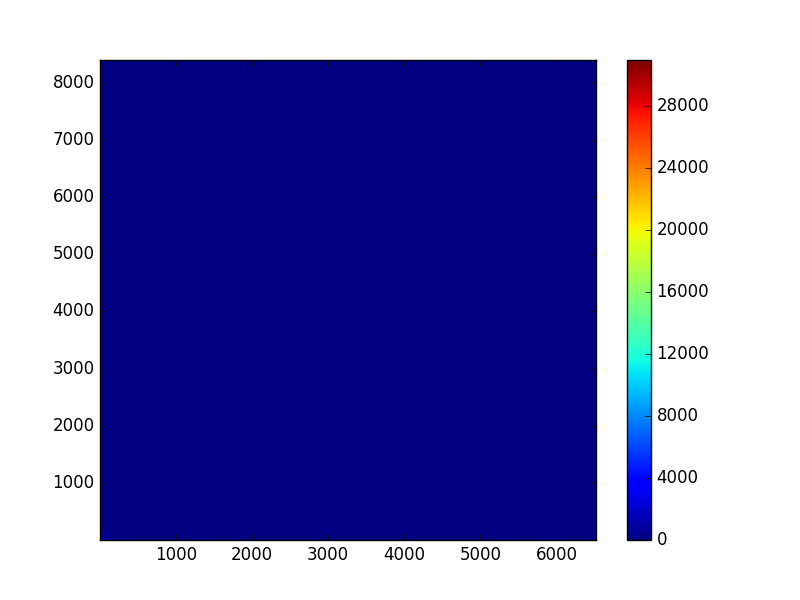
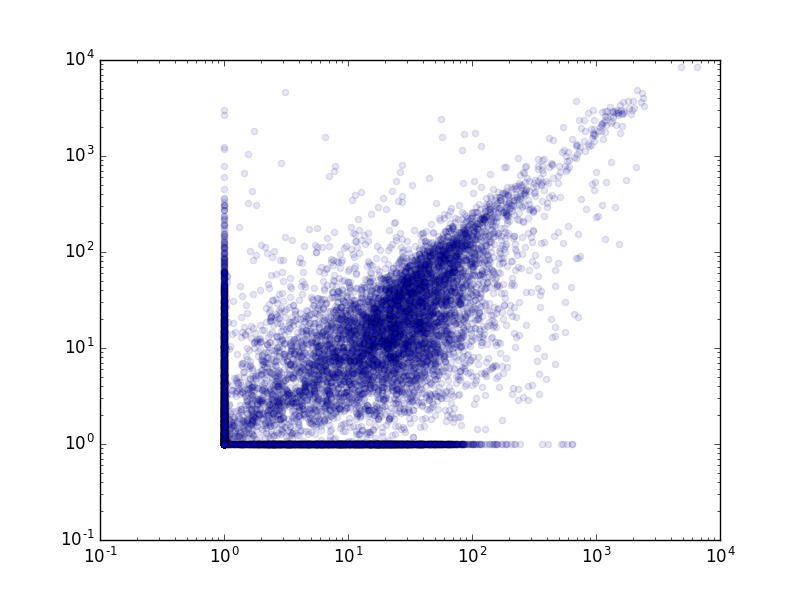
change scatterplot from hexbin

diff --git a/day4-afternoon/00-scattorPlot.py b/day4-afternoon/00-scattorPlot.py
@@ -9,10 +9,10 @@ df2 = pd.read_table(sys.argv[2])
 
 
 plt.figure()
-# plt.xscale("log")
-# plt.yscale("log")
-# plt.scatter( df1["FPKM"]+1, df2["FPKM"]+1, alpha=0.1)
-plt.hexbin( df1["FPKM"]+1, df2["FPKM"]+1)
-plt.colorbar()
+plt.xscale("log")
+plt.yscale("log")
+plt.scatter( df1["FPKM"]+1, df2["FPKM"]+1, alpha=0.1)
+# plt.hexbin( df1["FPKM"]+1, df2["FPKM"]+1)
+# plt.colorbar()
 plt.savefig("scatterplot.png")
 plt.close()
